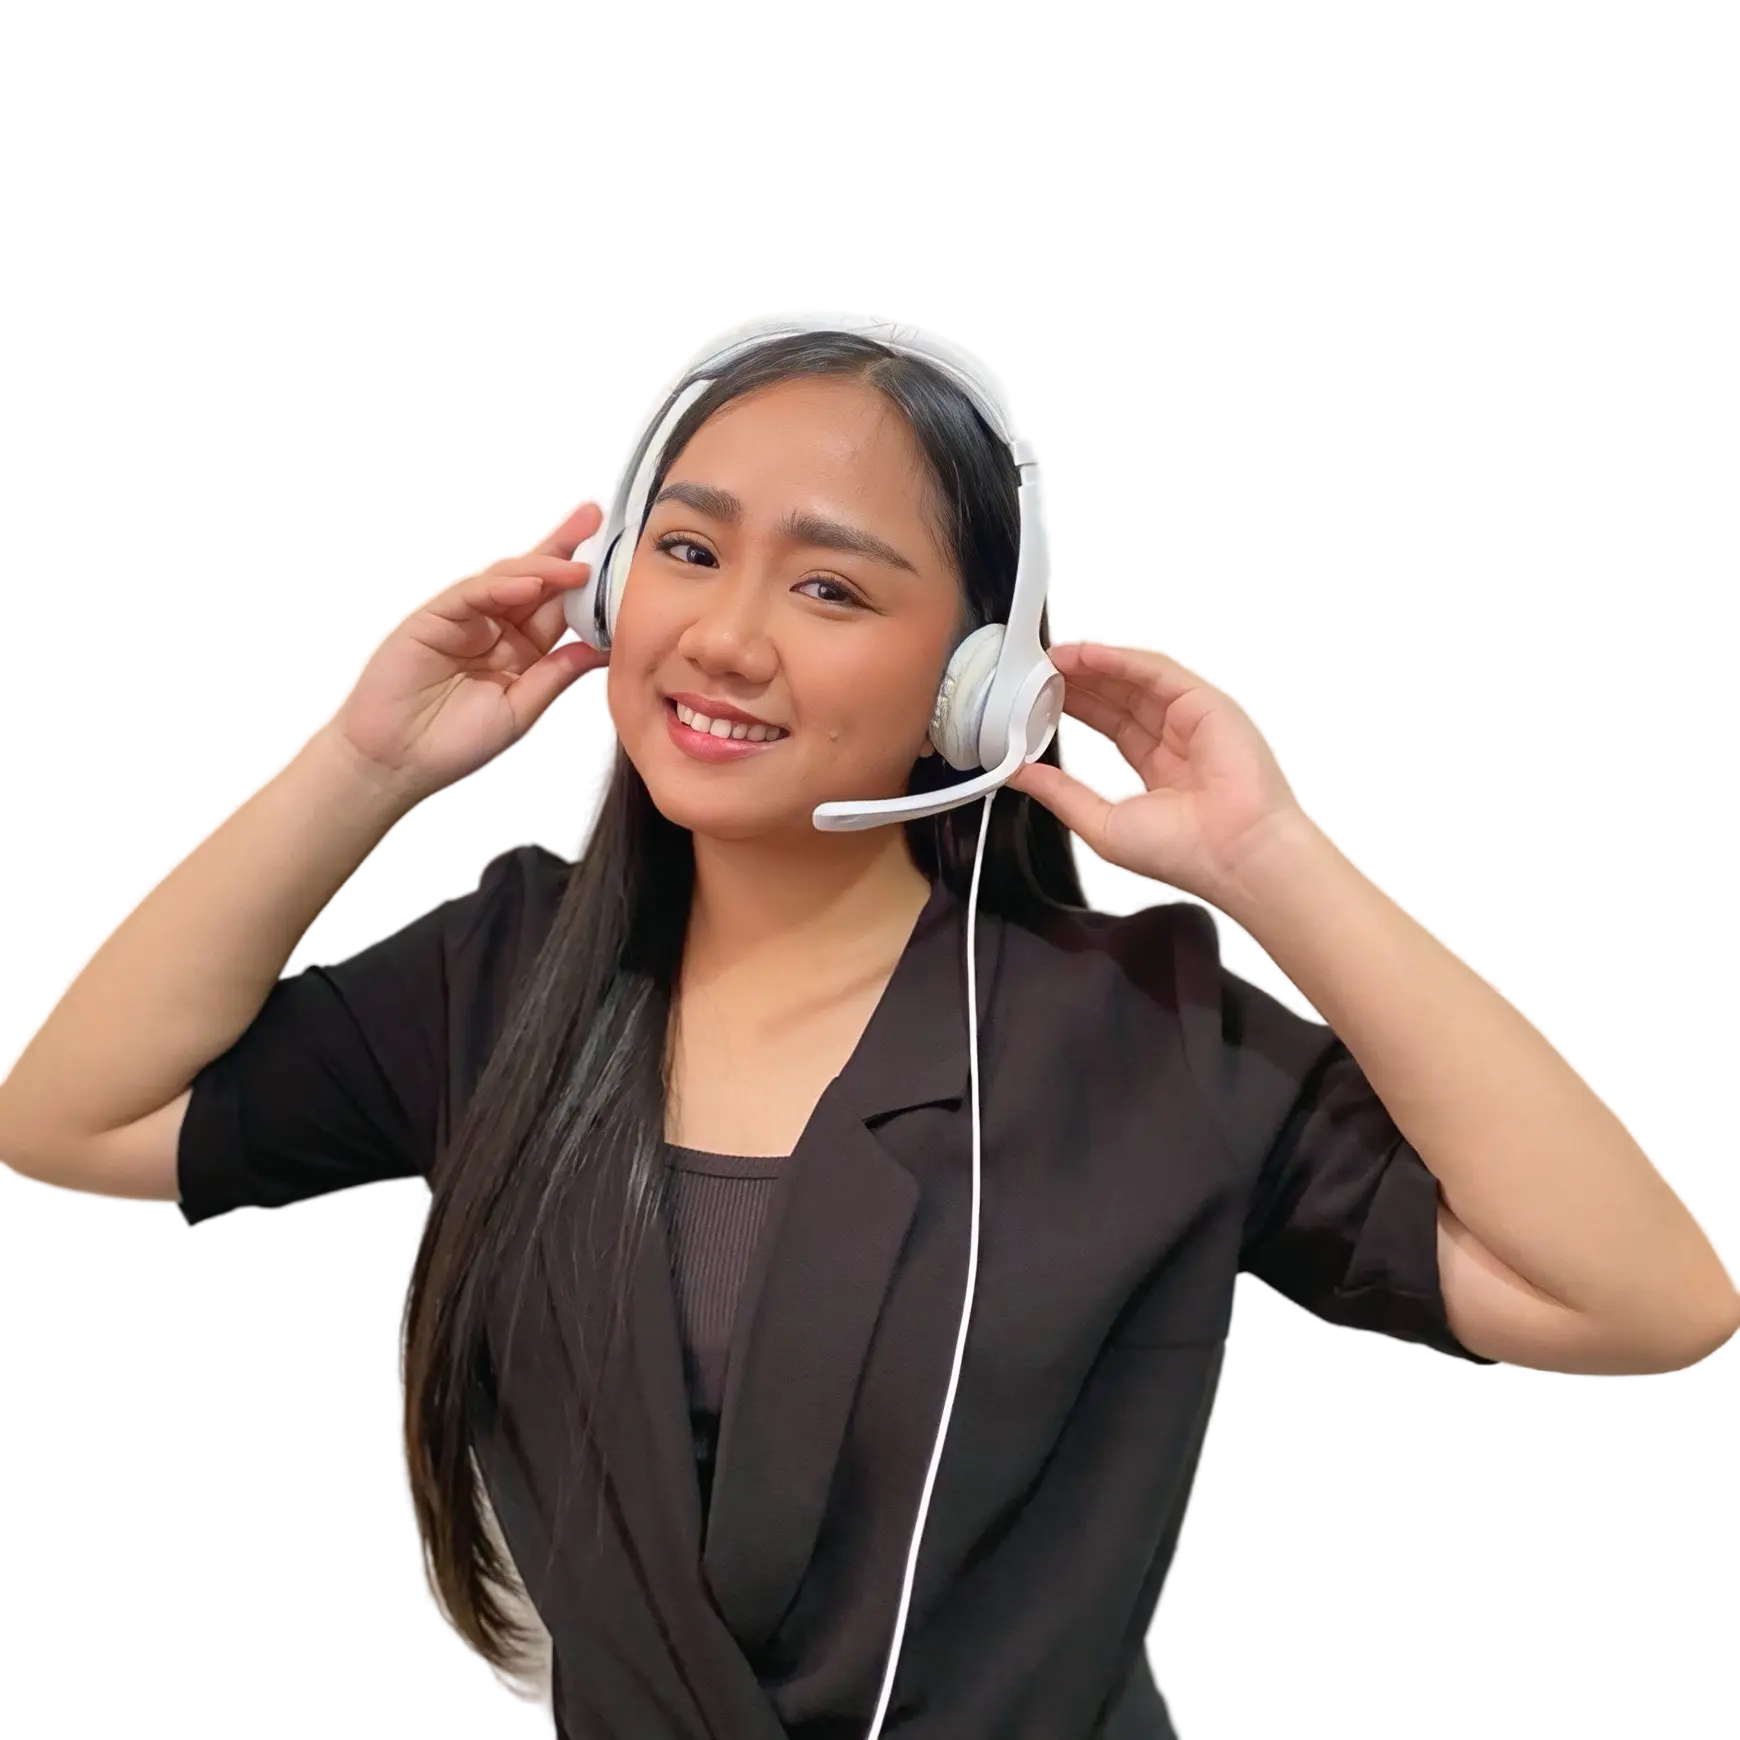
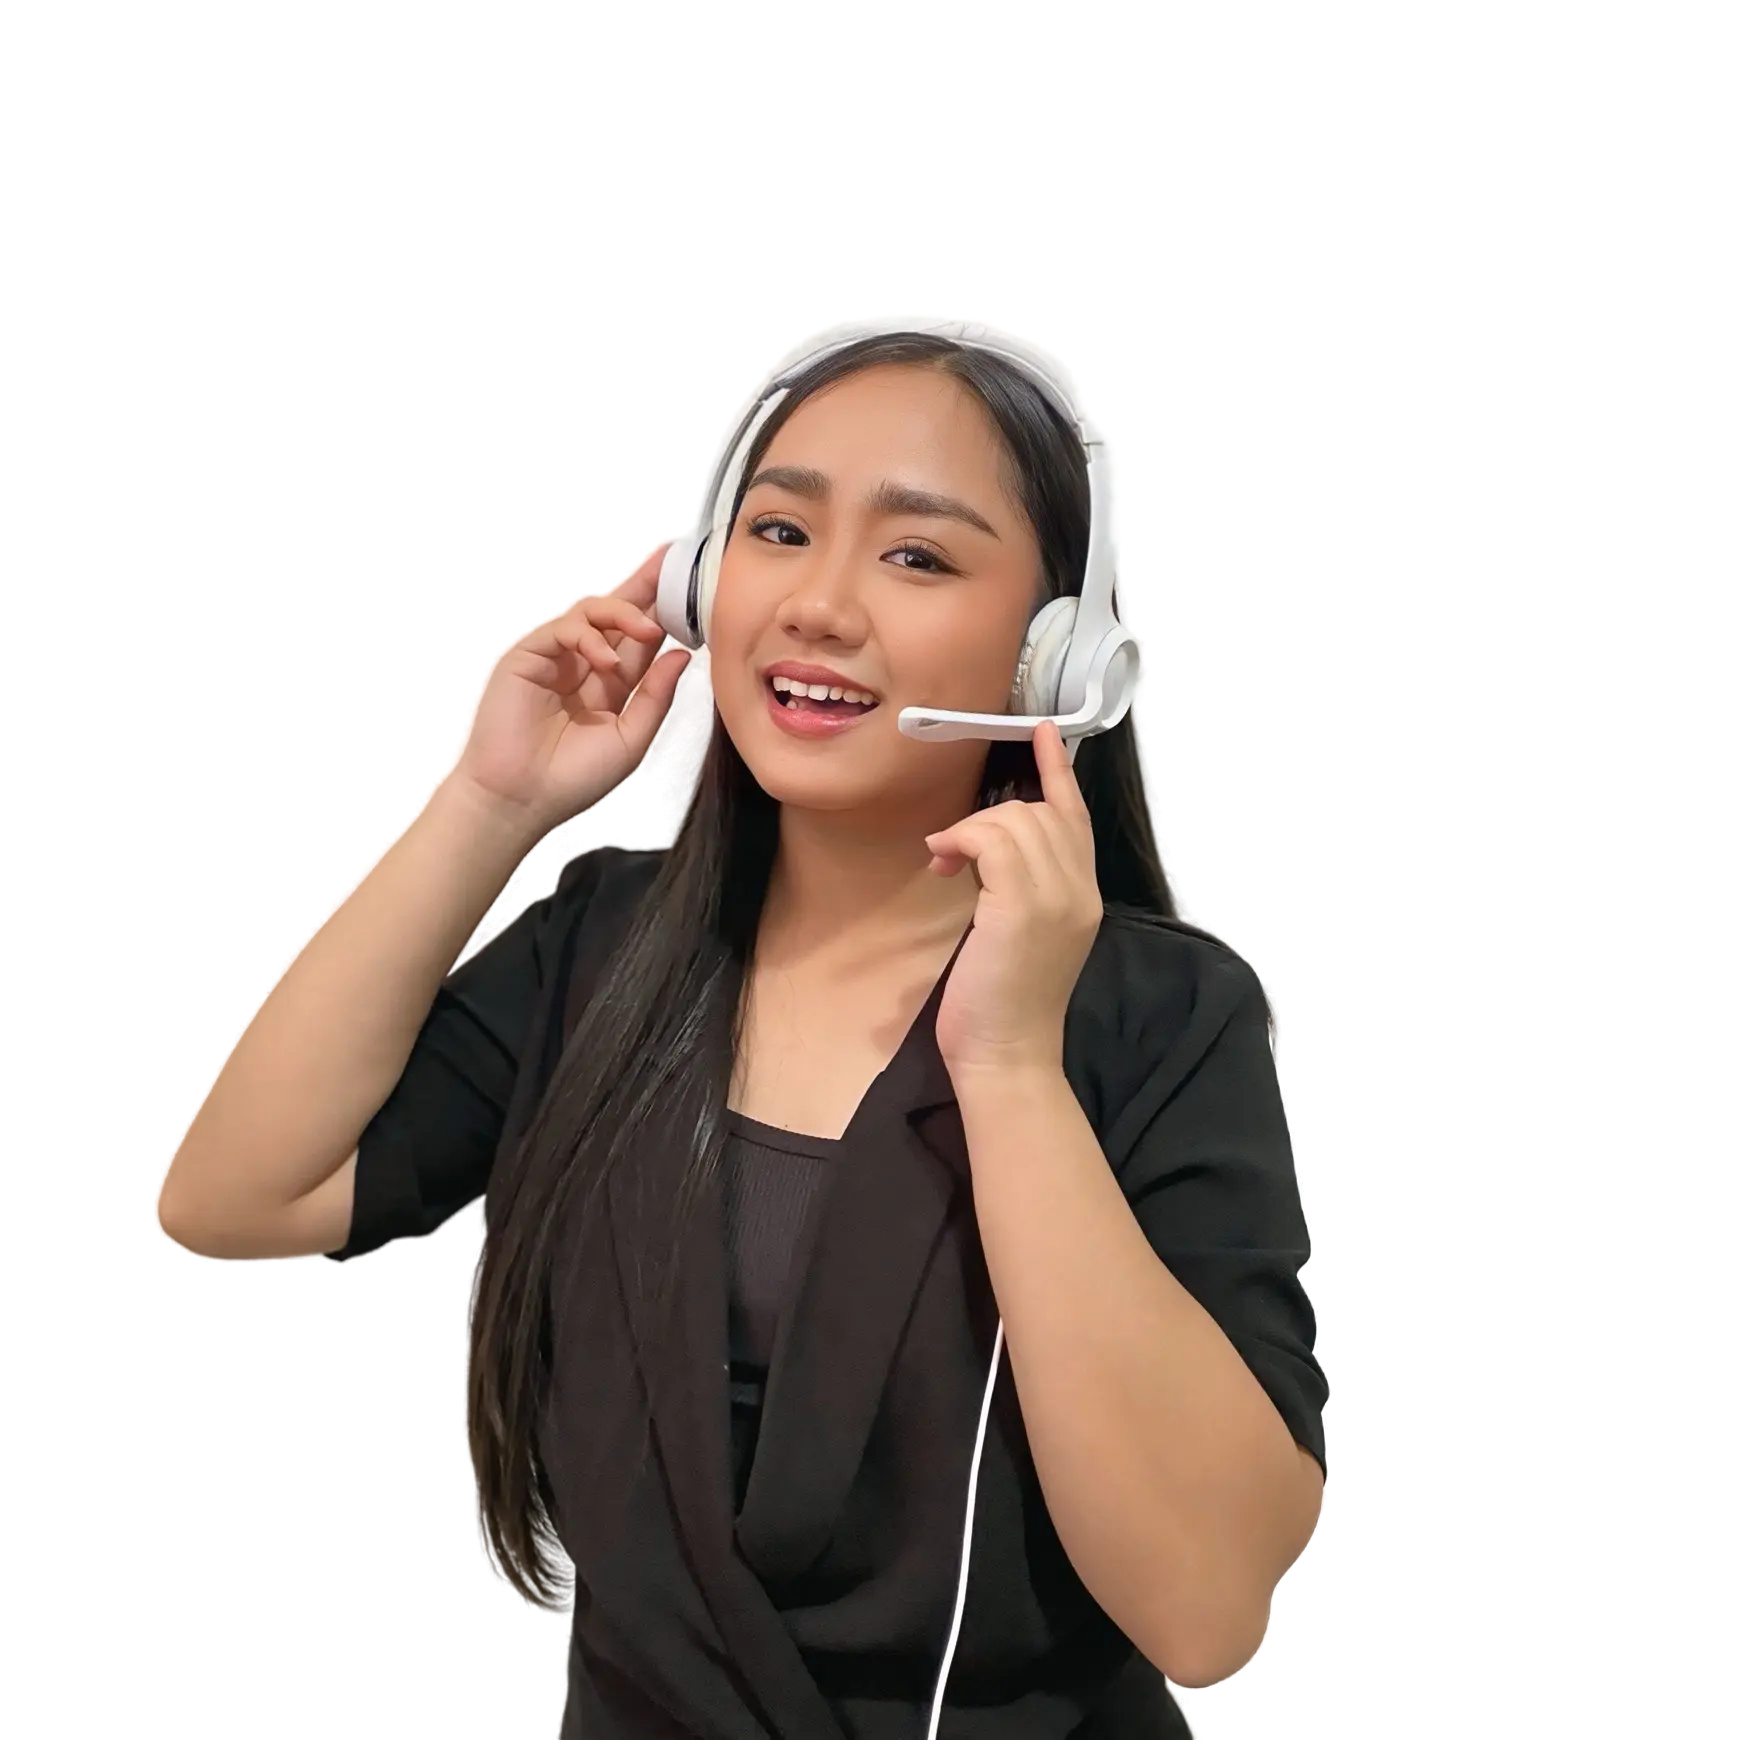
Update Hero image size and positioning

diff --git a/src/components/About.tsx b/src/components/About.tsx
@@ -16,10 +16,10 @@ const About = () => {
         <div className="max-w-6xl mx-auto">
           <ScrollAnimation direction="up">
             <div className="text-center mb-12">
-              <h2 className="text-4xl md:text-5xl font-serif font-bold text-gray-800/90 hover:text-gray-900 transition-colors duration-300 mb-4">
+              <h2 className="text-4xl md:text-5xl font-serif font-bold text-gray-800/90 mb-4">
                 ABOUT ME
               </h2>
-              <p className="text-lg text-gray-600/90 hover:text-gray-700 transition-colors duration-300 max-w-3xl mx-auto">
+              <p className="text-lg text-gray-600/90 max-w-3xl mx-auto">
                 Dedicated healthcare professional with a passion for patient care and medical documentation.
               </p>
             </div>
@@ -35,61 +35,101 @@ const About = () => {
                 className="relative"
               >
                 <div className="relative">
-                  <img
-                    src="optimized/about-me-image.webp"
-                    alt="Quezelle Torres"
-                    className="w-full h-[400px] md:h-[550px] lg:h-[650px] object-cover"
-                  />
+                  {/* Background shapes with overlap effect */}
+                  <div className="absolute -inset-4 z-0">
+                    {/* Large background shape */}
+                    <div className="absolute right-0 -bottom-20 w-[110%] h-[110%] rounded-[3rem] 
+                      bg-gradient-to-br from-purple-200/25 via-blue-100/20 to-coral-200/25 
+                      blur-[70px] transform translate-x-12 translate-y-12 rotate-3" />
+                    
+                    {/* Overlapping shape */}
+                    <div className="absolute -left-10 -top-20 w-[90%] h-[90%] rounded-[3rem] 
+                      bg-gradient-to-tr from-coral-200/25 via-purple-100/20 to-blue-200/25 
+                      blur-[50px] transform -translate-x-12 -translate-y-12 -rotate-6" />
+                    
+                    {/* Accent shape */}
+                    <div className="absolute right-1/4 top-1/4 w-[60%] h-[60%] rounded-[2rem] 
+                      bg-gradient-to-r from-blue-200/20 via-purple-200/20 to-coral-200/20 
+                      blur-[40px] rotate-12 animate-float" />
+                  </div>
+                  
+                  {/* Modern border design with overlap */}
+                  <div className="relative z-10 -rotate-2 transform hover:rotate-0 transition-transform duration-500">
+                    {/* Outer container with gradient border */}
+                    <div className="relative rounded-3xl p-[2px] bg-gradient-to-r from-coral-200/30 via-purple-200/30 to-blue-200/30 
+                      shadow-2xl backdrop-blur-sm animate-gradient-x">
+                      
+                      {/* Inner container with glass effect */}
+                      <div className="relative rounded-3xl bg-white/5 p-3 backdrop-blur-sm">
+                        {/* Double border effect */}
+                        <div className="absolute inset-0 rounded-3xl border border-white/10" />
+                        <div className="absolute inset-[2px] rounded-2xl border border-white/5" />
+                        
+                        {/* Image container */}
+                        <div className="relative rounded-2xl overflow-hidden">
+                          <img
+                            src="optimized/about-me-image.webp"
+                            alt="Quezelle Torres"
+                            className="w-full h-[450px] md:h-[600px] lg:h-[700px] object-cover transform rotate-2"
+                          />
+                          
+                          {/* Subtle gradient overlay */}
+                          <div className="absolute inset-0 bg-gradient-to-t 
+                            from-gray-900/30 via-transparent to-transparent" />
+                        </div>
+                      </div>
+                    </div>
+                  </div>
                 </div>
               </motion.div>
             </ScrollAnimation>
 
             <div className="space-y-6">
               <ScrollAnimation direction="left" delay={0.3}>
-                <p className="text-lg text-gray-600/90 hover:text-gray-700 transition-colors duration-300 mb-4">
+                <p className="text-lg text-gray-600/90 mb-4">
                   I am a dedicated and detail-oriented Home Health Specialist with two years of experience managing medical records, prior authorizations, intake processes, and diverted service reports. My expertise lies in streamlining documentation using advanced Electronic Health Record (EHR) systems.
                 </p>
               </ScrollAnimation>
 
               <ScrollAnimation direction="left" delay={0.4}>
-                <p className="text-lg text-gray-600/90 hover:text-gray-700 transition-colors duration-300 mb-4">
+                <p className="text-lg text-gray-600/90 mb-4">
                   Skilled in effective communication, I excel at collaborating with healthcare professionals, addressing patient needs with empathy, and ensuring clear and reliable interactions.
                 </p>
               </ScrollAnimation>
 
               <ScrollAnimation direction="left" delay={0.5}>
-                <p className="text-lg text-gray-600/90 hover:text-gray-700 transition-colors duration-300">
+                <p className="text-lg text-gray-600/90">
                   Adept at prioritizing and organizing multiple tasks in fast-paced environments, I have been recognized for my contributions to developing and maintaining quality standards, delivering exceptional performance across organizations, and ensuring compliance with HIPAA regulations.
                 </p>
               </ScrollAnimation>
 
               <ScrollAnimation direction="left" delay={0.6}>
                 <div className="flex flex-wrap gap-3">
-                  <span className="px-4 py-2 bg-coral-500/10 text-coral-600/90 hover:text-coral-600 transition-colors duration-300 rounded-full text-sm">
+                  <span className="px-4 py-2 bg-coral-500/10 text-coral-600/90 rounded-full text-sm">
                     EHR Expert
                   </span>
-                  <span className="px-4 py-2 bg-green-500/10 text-green-600/90 hover:text-green-600 transition-colors duration-300 rounded-full text-sm">
+                  <span className="px-4 py-2 bg-green-500/10 text-green-600/90 rounded-full text-sm">
                     Medical Records Management
                   </span>
-                  <span className="px-4 py-2 bg-blue-500/10 text-blue-600/90 hover:text-blue-600 transition-colors duration-300 rounded-full text-sm">
+                  <span className="px-4 py-2 bg-blue-500/10 text-blue-600/90 rounded-full text-sm">
                     Authorizations
                   </span>
-                  <span className="px-4 py-2 bg-coral-500/10 text-coral-600/90 hover:text-coral-600 transition-colors duration-300 rounded-full text-sm">
+                  <span className="px-4 py-2 bg-coral-500/10 text-coral-600/90 rounded-full text-sm">
                     HIPAA Compliance
                   </span>
-                  <span className="px-4 py-2 bg-purple-500/10 text-purple-600/90 hover:text-purple-600 transition-colors duration-300 rounded-full text-sm">
+                  <span className="px-4 py-2 bg-purple-500/10 text-purple-600/90 rounded-full text-sm">
                     Patient-Focused Communication
                   </span>
-                  <span className="px-4 py-2 bg-green-500/10 text-green-600/90 hover:text-green-600 transition-colors duration-300 rounded-full text-sm">
+                  <span className="px-4 py-2 bg-green-500/10 text-green-600/90 rounded-full text-sm">
                     Eligibility
                   </span>
-                  <span className="px-4 py-2 bg-blue-500/10 text-blue-600/90 hover:text-blue-600 transition-colors duration-300 rounded-full text-sm">
+                  <span className="px-4 py-2 bg-blue-500/10 text-blue-600/90 rounded-full text-sm">
                     Insurance Verification
                   </span>
-                  <span className="px-4 py-2 bg-coral-500/10 text-coral-600/90 hover:text-coral-600 transition-colors duration-300 rounded-full text-sm">
+                  <span className="px-4 py-2 bg-coral-500/10 text-coral-600/90 rounded-full text-sm">
                     Scheduling Appointments
                   </span>
-                  <span className="px-4 py-2 bg-purple-500/10 text-purple-600/90 hover:text-purple-600 transition-colors duration-300 rounded-full text-sm">
+                  <span className="px-4 py-2 bg-purple-500/10 text-purple-600/90 rounded-full text-sm">
                     Non-Clinical Quality Assurance
                   </span>
                 </div>
@@ -99,7 +139,7 @@ const About = () => {
                 <div className="flex flex-col sm:flex-row gap-4 justify-start">
                   <motion.a
                     href="#contact"
-                    className="group relative inline-flex items-center justify-center px-8 py-4 overflow-hidden rounded-xl bg-coral-500 text-white/90 font-medium shadow-lg transition-all duration-300 hover:bg-coral-600/90 hover:text-white hover:shadow-coral-500/20 hover:-translate-y-1"
+                    className="group relative inline-flex items-center justify-center px-8 py-4 overflow-hidden rounded-xl bg-coral-500 text-white/90 font-medium shadow-lg transition-all duration-300"
                     whileHover={{ scale: 1.02 }}
                     whileTap={{ scale: 0.98 }}
                   >
@@ -118,7 +158,7 @@ const About = () => {
                   
                   <motion.button
                     onClick={() => setIsModalOpen(true)}
-                    className="group relative inline-flex items-center justify-center px-8 py-4 overflow-hidden rounded-xl bg-white/5 dark:bg-gray-800/50 backdrop-blur-sm text-gray-900 dark:text-white font-medium transition-all duration-300 hover:bg-white/10 dark:hover:bg-gray-700/50 hover:shadow-lg hover:-translate-y-1"
+                    className="group relative inline-flex items-center justify-center px-8 py-4 overflow-hidden rounded-xl bg-white/5 dark:bg-gray-800/50 backdrop-blur-sm text-gray-900 dark:text-white font-medium transition-all duration-300"
                     whileHover={{ scale: 1.02 }}
                     whileTap={{ scale: 0.98 }}
                   >

diff --git a/src/components/Hero.tsx b/src/components/Hero.tsx
@@ -241,9 +241,9 @@ const Hero = memo(() => {
                 <OptimizedImage
                   src="/optimized/hero-image.webp"
                   alt="Quezelle Torres"
-                  width={600}
-                  height={600}
-                  className="w-full h-auto relative z-10"
+                  width={1000}
+                  height={1000}
+                  className="w-full max-w-[900px] h-auto relative z-10 mx-auto"
                   loading="eager"
                 />
               </motion.div>

diff --git a/src/styles/animations.css b/src/styles/animations.css
@@ -1,0 +1,26 @@
+@keyframes float {
+  0%, 100% {
+    transform: translateY(0) translateX(0);
+  }
+  50% {
+    transform: translateY(-10px) translateX(5px);
+  }
+}
+
+@keyframes gradient-x {
+  0%, 100% {
+    background-position: 0% 50%;
+  }
+  50% {
+    background-position: 100% 50%;
+  }
+}
+
+.animate-float {
+  animation: float 6s ease-in-out infinite;
+}
+
+.animate-gradient-x {
+  animation: gradient-x 15s linear infinite;
+  background-size: 200% 200%;
+}
